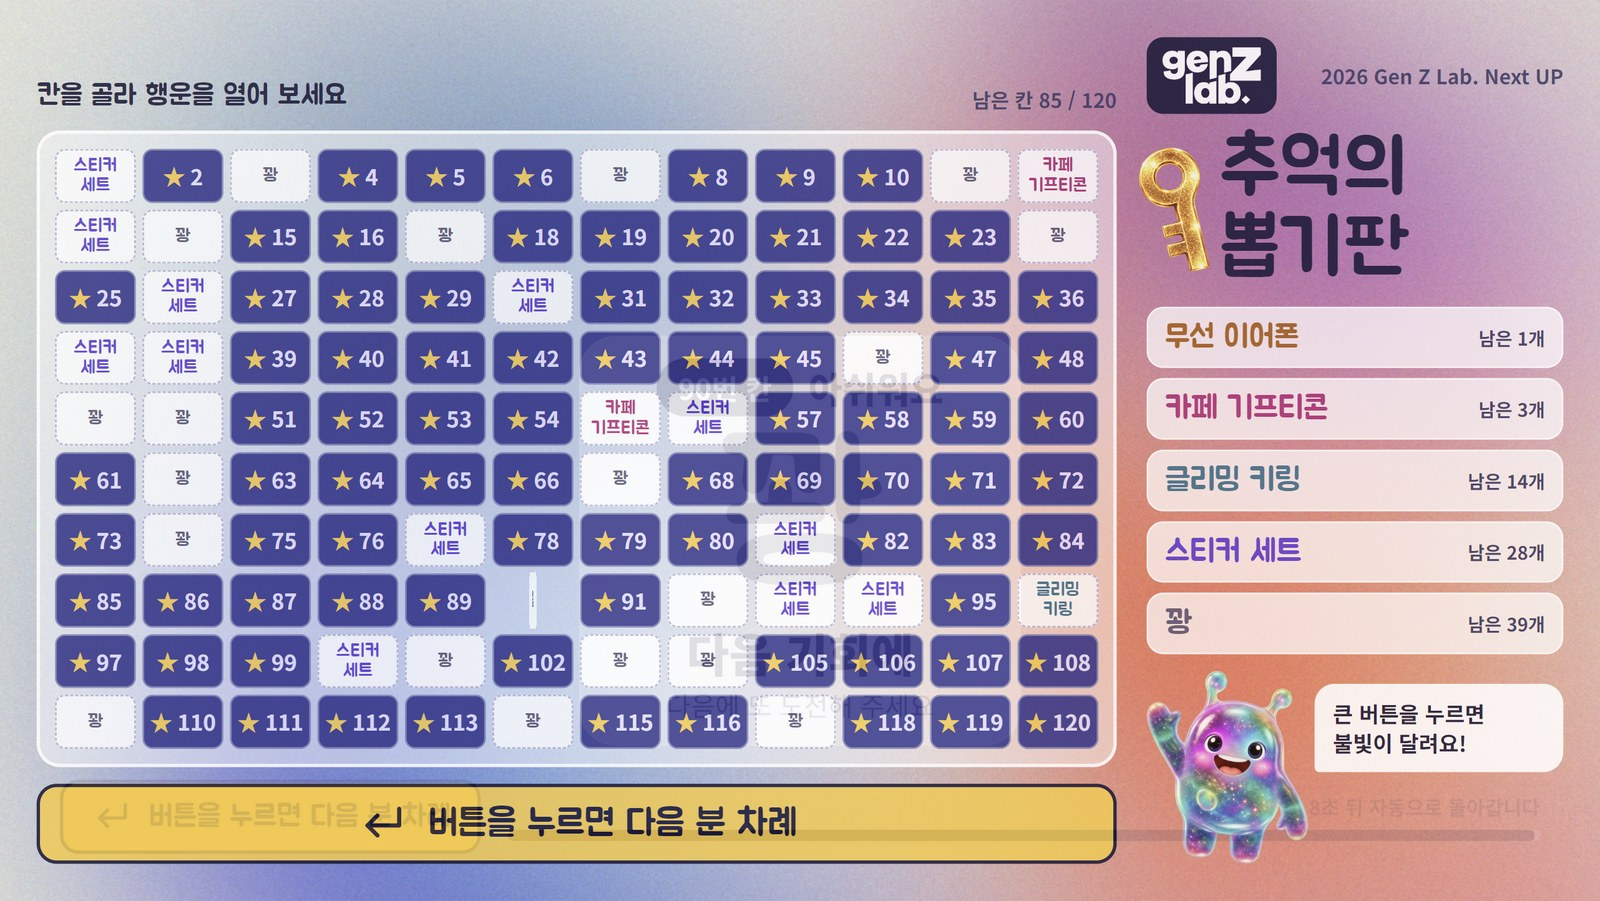
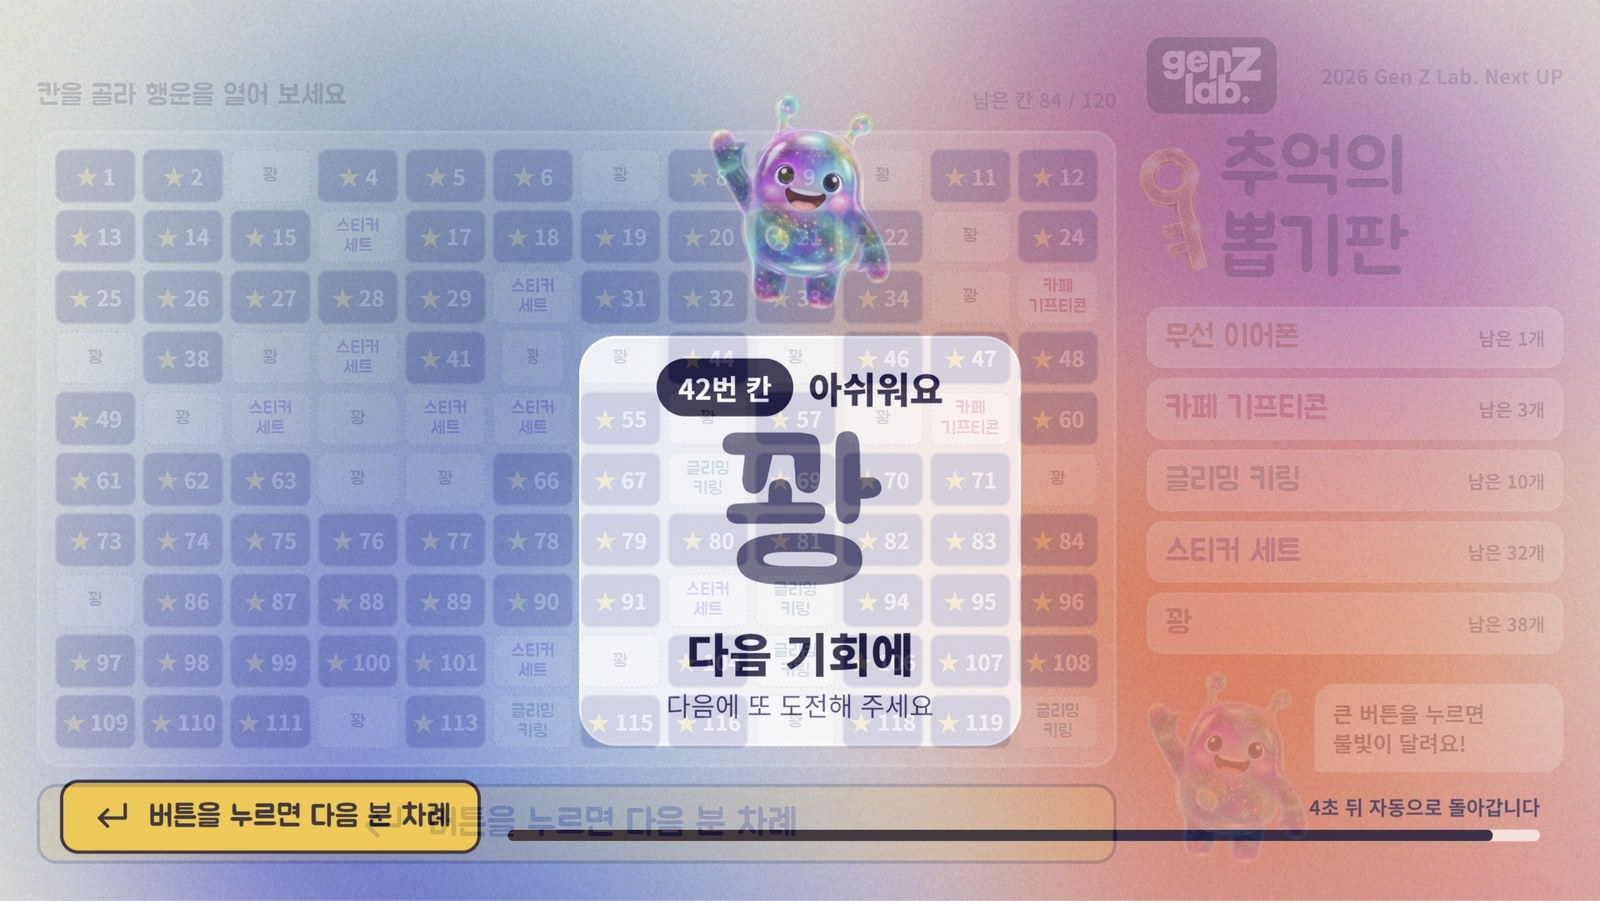
1.1.1: 계속 돌기는 바로 멈춤, 결과 화면 기본 4초
- 계속 돌기 방식에서는 멈추는 시간과 상관없이 누른 자리에 바로 멈춥니다.
- 결과 화면 유지 시간의 기본값을 8초에서 4초로 줄였습니다.

diff --git a/renderer/admin.js b/renderer/admin.js
@@ -325,7 +325,12 @@
       field('진행 방식', seg(
         [{ value: 'auto', label: '알아서 멈춤' }, { value: 'manual', label: '눌러서 멈춤' }, { value: 'always', label: '계속 돌기' }],
         draft.alwaysSpin ? 'always' : draft.autoStop ? 'auto' : 'manual',
-        function (v) { draft.alwaysSpin = v === 'always'; draft.autoStop = v !== 'manual'; lookChange(); render(); }
+        function (v) {
+          draft.alwaysSpin = v === 'always'; draft.autoStop = v !== 'manual';
+          // 계속 돌기는 누른 자리에 바로 멈추는 방식이라, 멈추는 시간을 '바로 멈춤'으로 맞춥니다.
+          if (draft.alwaysSpin) draft.stopSeconds = 0;
+          lookChange(); render();
+        }
       )),
       h('p', { class: 'sub', text: draft.alwaysSpin
         ? '불빛이 항상 돌고 있습니다. 엔터를 누르면 그 자리에 멈추고 상품이 열립니다.'
@@ -334,7 +339,9 @@
           : '엔터를 누르면 불빛이 돌고, 한 번 더 누르면 멈춥니다.' }),
       draft.autoStop && !draft.alwaysSpin ? slider('도는 시간', 'spinSeconds', 1, 15, function (v) { return v + '초'; }) : null,
       slider('종이 보여주는 시간', 'paperSeconds', 0, 8, function (v) { return v + '초'; }),
-      slider('멈추는 시간', 'stopSeconds', 0, 8, function (v) { return v === 0 ? '바로 멈춤' : v + '초'; }),
+      draft.alwaysSpin
+        ? field('멈추는 시간', h('div', { class: 'status', text: '바로 멈춤 (계속 돌기에서는 고정)' }))
+        : slider('멈추는 시간', 'stopSeconds', 0, 8, function (v) { return v === 0 ? '바로 멈춤' : v + '초'; }),
       slider('결과 유지 시간', 'resultSeconds', 0, 30, function (v) { return v === 0 ? '수동' : v + '초'; }),
       slider('음량', 'volume', 0, 100, function (v) { return v + '%'; }),
       field('남은 수량', seg([{ value: true, label: '화면에 보이기' }, { value: false, label: '숨기기' }], draft.showRemaining, function (v) { draft.showRemaining = v; lookChange(); render(); })),

diff --git a/renderer/app.js b/renderer/app.js
@@ -82,7 +82,7 @@
   }
 
   function persist() {
-    return Platform.save({ version: 3, settings: App.settings, board: App.board }).catch(function () {
+    return Platform.save({ version: 4, settings: App.settings, board: App.board }).catch(function () {
       toast('저장에 실패했습니다. 디스크 공간과 권한을 확인해 주세요.');
     });
   }
@@ -363,7 +363,8 @@
     clearTimers();
     App.phase = 'slow';
     renderHint();
-    var target = App.settings.stopSeconds * 1000;
+    // 계속 도는 방식에서는 항상 누른 자리에 바로 멈춥니다.
+    var target = App.settings.alwaysSpin ? 0 : App.settings.stopSeconds * 1000;
     var d = Math.max(60, L.speedToMs(App.settings.cursorSpeed));
     var delays = [], sum = 0;
     while (sum < target && delays.length < 80) { delays.push(d); sum += d; d = Math.min(d * 1.2, 700); }
@@ -721,7 +722,10 @@
     App.board = ok ? b : L.createBoard(App.settings);
     if (!App.board) { App.settings = L.defaultSettings(); App.board = L.createBoard(App.settings); }
     S.setVolume(App.settings.volume);
-    if (!ok || oldSave || preV3) persist();
+    // 결과 화면 기본 시간이 8초에서 4초로 바뀌었습니다. 예전 기본값 그대로인 저장본에만 한 번 적용합니다.
+    var preV4 = !!saved && !(saved.version >= 4);
+    if (preV4 && App.settings.resultSeconds === 8) App.settings.resultSeconds = 4;
+    if (!ok || oldSave || preV3 || preV4) persist();
     renderFsBtn();
     var start = function () { layout(); renderHeader(); if (App.phase === 'idle' || App.phase === 'done') { needFull = true; toIdle(); } };
     start();

diff --git a/renderer/logic.js b/renderer/logic.js
@@ -35,7 +35,7 @@
       spinSeconds: 1,  // 알아서 멈출 때 불빛이 도는 시간
       paperSeconds: 1, // 펼쳐진 종이를 보여 주는 시간(그 뒤 결과 화면으로 넘어감)
       stopSeconds: 0, // 0 = 바로 멈춤, 1 이상 = 그 시간 동안 점점 느려지다 멈춤
-      resultSeconds: 8, // 0 이면 버튼을 누를 때까지 유지
+      resultSeconds: 4, // 0 이면 버튼을 누를 때까지 유지
       volume: 80,
       showRemaining: true,
       autoNewBoard: false,

diff --git a/scripts/capture.js b/scripts/capture.js
@@ -82,7 +82,7 @@ async function run() {
   await shot(win, '04-paper-open.jpg');
 
   // 3. 결과 화면
-  await js(`window.setTimeout = window.__st; App.interrupt(); App.settings.resultSeconds = 8; true`);
+  await js(`window.setTimeout = window.__st; App.interrupt(); App.settings.resultSeconds = 4; true`);
   await sleep(1700);
   await js(`App.press(); true`);
   for (let i = 0; i < 150; i++) { if ((await js('App.phase')) === 'result') break; await sleep(100); }

diff --git a/README.md b/README.md
@@ -16,8 +16,8 @@
 
 | 파일 | 대상 |
 |---|---|
-| `GenZLab-PunchBoard-1.1.0-x64.exe` | 일반 Windows PC (대부분 이 파일) |
-| `GenZLab-PunchBoard-1.1.0-arm64.exe` | ARM 방식 Windows PC (Snapdragon 노트북 등) |
+| `GenZLab-PunchBoard-1.1.1-x64.exe` | 일반 Windows PC (대부분 이 파일) |
+| `GenZLab-PunchBoard-1.1.1-arm64.exe` | ARM 방식 Windows PC (Snapdragon 노트북 등) |
 | `USAGE-ko.txt` | 행사 운영자용 사용 안내 (한국어) |
 
 서명이 없는 프로그램이라 처음 실행할 때 "Windows의 PC 보호" 경고가 뜹니다. **추가 정보 → 실행**을 누르면 됩니다.
